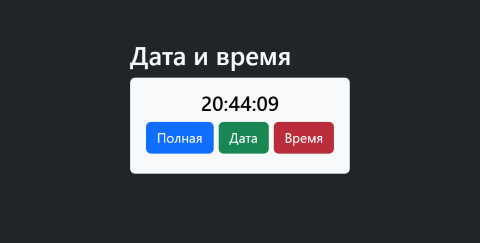
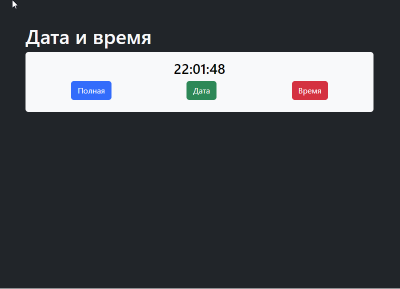
ДОБАВЛЕНЫ исправленные картинки, ДОРАБОТАН "хедер", ИЗМЕНЕН задний фон.

diff --git a/index.html b/index.html
@@ -21,40 +21,40 @@
                 <div class="heading__mobile">
                     <div class="heading__content-mobile">
                         <div class="heading__content-mobile_logo">
-                            <img src="img/rubik_cube_bgp_84.png" alt="cube_rubik">                        
+                            <img src="img/logo_frontend.png" alt="cube_rubik">                        
                         </div>
                         <div class="heading__content-mobile_text">
                             <div class="heading__content-mobile_name">
                                 <div class="content-mobil_prof">
-                                    <h1>WEB-разработчик</h1>
+                                    <h1>WEB-разработка</h1>
                                 </div>
                                 <div class="content-mobile_name">
                                     <h3>Сергей</h3>
                                     <h3>Капитонов</h3>
                                 </div>
+                                <div class="heading__content-block_contact">
+                                    <div class="block_contact-phone">
+                                        <a href=""></a>
+                                        <p>+7 (915) 992-82-86</p>
+                                    </div>
+                                    <div class="block_contact-mail">
+                                        <a href=""></a>
+                                        <p>teamextrem@mail.ru </p>
+                                    </div>
+                                </div>
                             </div>    
-                        </div>
-                    </div>
-                    <div class="heading__content-block_contact">
-                        <div class="block_contact-phone">
-                            <a href=""></a>
-                            <p>+7 (915) 992-82-86</p>
-                        </div>
-                        <div class="block_contact-mail">
-                            <a href=""></a>
-                            <p>teamextrem@mail.ru </p>
                         </div>
                     </div>
                 </div>
 
                 <div class="heading__content">               
                     <div class="heading__content-block_name">
-                        <h1>WEB-разработчик</h1>
+                        <h1>WEB-разработка</h1>
                         <h3>Сергей</h3>
                         <h3>Капитонов</h3>
                     </div>
                     <div class="heading__content-block_logo">
-                        <img src="img/rubik_cube_bgp.png" alt="cube_rubik">
+                        <img src="img/logo_frontend.png" alt="cube_rubik">
                     </div>
 
                     <div class="heading__content-block_contact">
@@ -152,7 +152,7 @@
                 <div>
                     <h3>Calculator</h3>
                     <div class="work-grid_piture">
-                        <!-- <img src="img/project_6.png" alt="project_6"> -->
+                        <img src="img/project_6.png" alt="project_6">
                     </div>    
                     <a href="pages/project_6_calculator/project_6.html" target="_blank">Смотреть</a>
                 </div>
@@ -160,7 +160,7 @@
                 <div>
                     <h3>Notes</h3>
                     <div class="work-grid_piture">
-                        <!-- <img src="img/project_7.png" alt="project_7"> -->
+                        <img src="img/project_7.png" alt="project_7">
                     </div>
                     <a href="pages/project_7_notes/project_7.html" target="_blank">Смотреть</a>
                 </div>
@@ -168,7 +168,7 @@
                 <div>
                     <h3>Date & Time</h3>
                     <div class="work-grid_piture">
-                        <!-- <img src="img/project_8.png" alt="project_8"> -->
+                        <img src="img/project_8.png" alt="project_8">
                     </div>
                     <a href="pages/project_8_date_time/project_8.html" target="_blank">Смотреть</a>
                 </div>
@@ -176,7 +176,7 @@
                 <div>
                     <h3>Users list</h3>
                     <div class="work-grid_piture">
-                        <!-- <img src="img/project_9.png" alt="project_9"> -->
+                        <img src="img/project_9.png" alt="project_9">
                     </div>
                     <a href="pages/project_9_users list/project_9.html" target="_blank">Смотреть</a>
                 </div>

diff --git a/style.css b/style.css
@@ -27,7 +27,7 @@
 
 /* Общие классы */
 body{
-    background: linear-gradient(240deg, #1A237E -40%, #0277BD  120%);
+    background: radial-gradient(circle farthest-corner at 300px 150px, #1A237E, #0277BD);
     /* background-image: url(img/bg_1920_unsplash.jpg); */
     background-size: cover;
     background-repeat: no-repeat;    
@@ -51,8 +51,6 @@ p{
 a{
     font-size: var(--font-size-light);
 }
-
-
 .wrapper{
     width: 70%;
     margin: 0% auto;
@@ -86,6 +84,7 @@ a{
     font-weight: 150%;
     margin-bottom: 1rem;
 }
+
 .heading__content-block_name h3:nth-of-type(2){
     text-transform: uppercase;
     font-weight: 600;    
@@ -215,8 +214,7 @@ h2{
 .work-grid>div h3{
     font-size: var(--font-size-h3);
     font-weight: 600;
-    margin-top: .6rem;
-    margin-bottom: .6rem;
+    margin: .6rem 0;
     color: var(--color-purple);
 }
 
@@ -253,6 +251,7 @@ h2{
     grid-column: 2 / 3;
     grid-row: 1 / 2;
 }
+
 .work-grid>div:nth-of-type(3){
     grid-column: 3 / 4;
     grid-row: 1 / 2;

diff --git a/style_575.css b/style_575.css
@@ -1,4 +1,4 @@
-@media screen and (min-width: 575px) and (max-width: 766px){
+@media screen and (min-width: 574px) and (max-width: 766px){
     
     :root{
         --font-size-main: 12px;
@@ -43,9 +43,8 @@
         font-weight: 700;
     }
     
-    .heading__content-block_contact{        
-        width: 450px;
-        padding-left: 15.50rem;
+    .heading__content-block_contact{
+        margin-top: 1rem;
     }
 
     .heading__content{

diff --git a/style_574.css b/style_574.css
@@ -43,9 +43,8 @@
         font-weight: 700;
     }
     
-    .heading__content-block_contact{        
-        width: 450px;
-        padding-left: 15.50rem;
+    .heading__content-block_contact{
+        margin-top: 1rem;
     }
 
     .heading__content{
